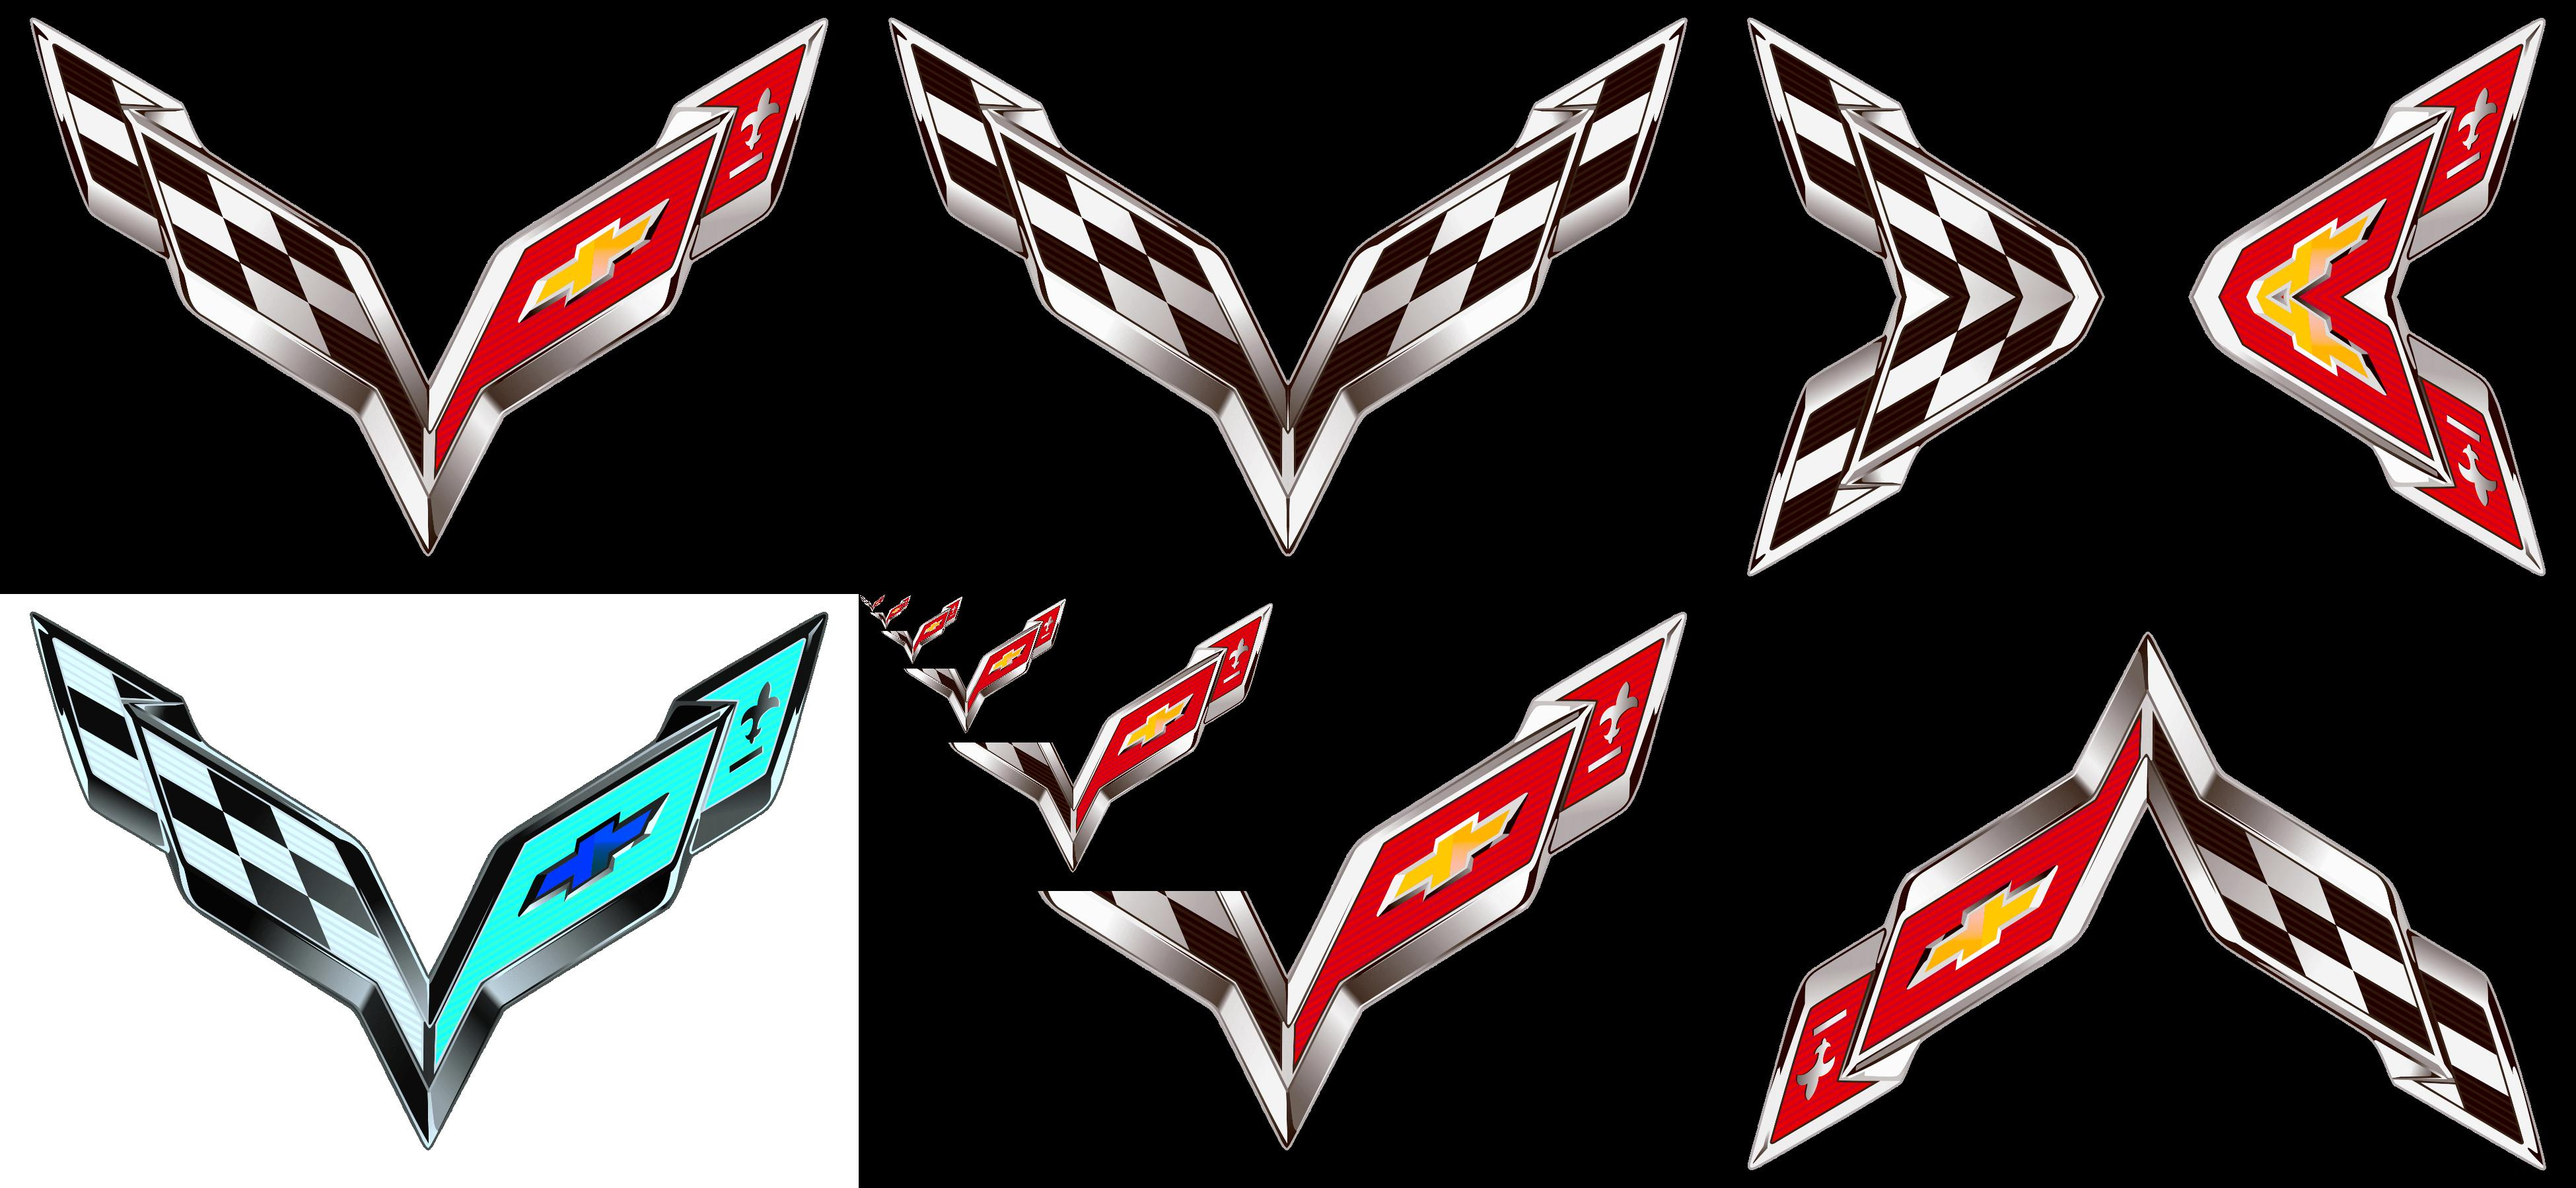
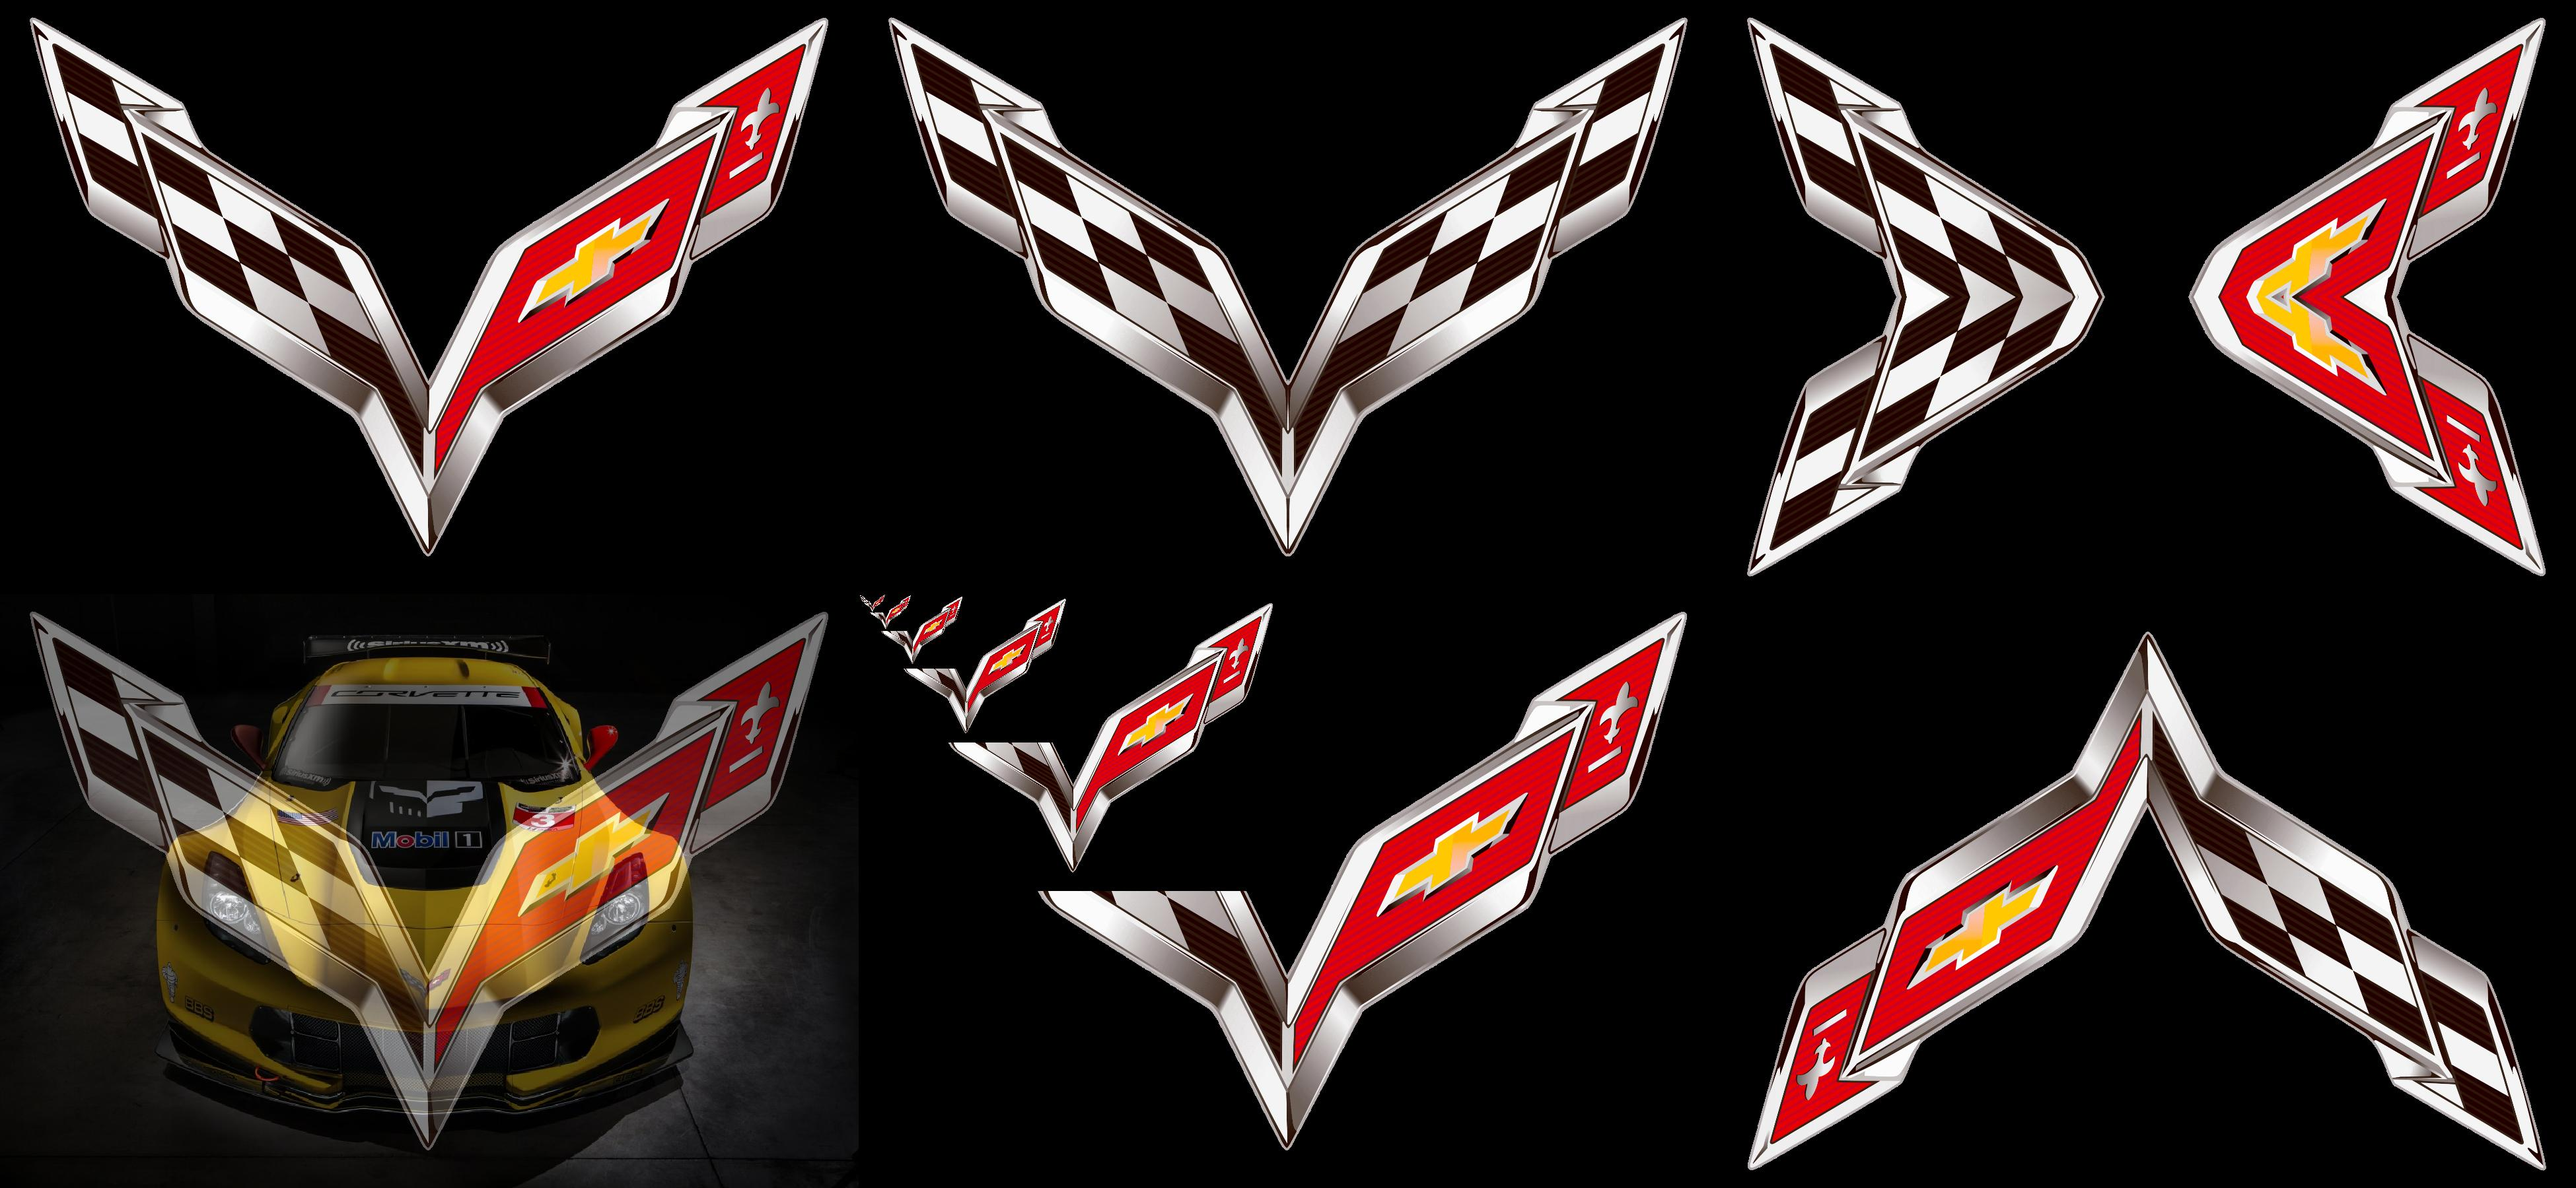
chud behaviour

Changed region(s): [[0.0, 0.4978, 0.3413, 1.0]]

diff --git a/ColorLabs17/TestPicture17.java b/ColorLabs17/TestPicture17.java
@@ -17,6 +17,7 @@ public class TestPicture17
     static Picture vette4 = new Picture("images/Corvette.png");
     static Picture vette5 = new Picture("images/Corvette.png");
     static Picture vette6 = new Picture("images/Corvette.png");
+    static Picture C7 = new Picture("images/C7.jpg");
     static Picture Canvas = new Picture("images/Canvas.jpg");
     
     /**
@@ -26,223 +27,14 @@ public class TestPicture17
   public static void main(String[] args)
   {
       
-      //opens picture using a dialog box
-      /*
-     String fileName = FileChooser.pickAFile();
-     Picture pictObj = new Picture(fileName);
-     pictObj.explore();
-     */
-
-     //opens a pictue using a path
-     //Picture apic = new Picture("C:\\Users\\khayes\\Favorites\\Documents\APCS- Java\chap03\Curriclum 2013\Picture Color labs\images\\beach.jpg");
-     
-     //relative path!!!! (ON TEST)
-     //                          dir/folder/file
-     //Picture apic = new Picture("images\\beach.jpg");
-     Picture ferris1 = new Picture("images/2000 ferris wheel2.jpg");
-     Picture moto = new Picture("images/redMotorcycle.jpg");
-     Picture motoOG = new Picture("images/redMotorcycle.jpg");
-     Picture moto2 = new Picture("images/redMotorcycle.jpg");
-     Picture moto3 = new Picture("images/redMotorcycle.jpg");
-     Picture moto4 = new Picture("images/redMotorcycle.jpg");
-     Picture moto5 = new Picture("images/redMotorcycle.jpg");
-     
-     //Picture ferris3 = new Picture("images/2000 ferris wheel2.jpg");
-
-     //displays the picture
-     //apic.explore();
-     //ferris1.explore();
-     //moto.explore();
-     
-     //makes an array of pixels
-     Pixel[] pixels;
-     
-     //gets pixels from picture and assigns to pixels array
-     pixels = ferris1.getPixels();
-     Pixel[] Mpixels;
-     Mpixels = moto.getPixels();
-     
-     Pixel[] Mpixels2;
-     Mpixels2 = moto2.getPixels();
-     
-     Pixel[] Mpixels3;
-     Mpixels3 = moto3.getPixels();
-     
-     Pixel[] Mpixels4;
-     Mpixels4 = moto4.getPixels();
-     
-     Pixel[] Mpixels5;
-     Mpixels5 = moto5.getPixels();
-     
-     
-     //how many pixels or how large array
-    System.out.println("This is a large array"+pixels.length  );
-    
-    /**/
-    /*
-        //access each index
-    System.out.println(pixels[17]);
-    //access each pixel
-    Pixel spot = ferris1.getPixel(100,100);
-    Pixel spot2 = ferris1.getPixel(433,283);
-    Pixel ferr17 = pixels[17];
-    
-    System.out.println(pixels[17].getColor());
-    System.out.println(spot);
-    
-    Color newColor = new Color(255, 99, 71);
-    
-    ferr17.setRed(240);
-    ferr17.setGreen(100);
-    ferr17.setBlue(200);
-    
-    spot.setColor(newColor);
-    spot2.setColor(newColor);
-    //ferris1.explore();
-    */
-    for (int i = 0; i < 50000; i++)
-    {
-        Pixel yuck = ferris1.getPixel((int)(Math.random()*1000), (int)(Math.random()*668));
-        yuck.setColor(Color.orange);
-    }
-    //ferris1.explore();
-    int Ored = 0, Ogreen = 0, Oblue = 0;
-    for (Pixel p : Mpixels){
-        Ored = p.getRed();
-        Ogreen = p.getGreen();
-        Oblue = p.getBlue();
-        p.setRed(Ored);
-        p.setGreen(Ogreen);
-        p.setBlue(Oblue);
-        
-    }
-    System.out.println(Ored);
-    /*
-
-   // loop to access indexes of array or collection
-
-    //for each loop spot  is a ?
-    for (Pixel spot : pixels)
-    System.out.println( spot );
-
-
-   
- /**/
- int red, green, blue;
- 
-
-
-
- /**
-  * Method to clear red from picture
-  * @param none
-  * @return none
-  */
- /*
-    for (Pixel pixelObj : pixels)
-        {
-            //set the red value of the current pixel to the new value
-           
-
-        }
-    ferris1.explore();
-    
-/**/
- /**
-  * Method to reduce red from picture by a factor of n
-  * @param none
-  * @return none
-  */
-
-/*
-int value;
-final double  FACTOR = .5;
-    for (Pixel pixelObj : pixels)
-    {
-
-        //get the redvalue
-        value = pixelObj.getRed();
-        //System.out.println(value);
-
-        //decrease the red value by 50%
-        
-        //set the red value of the current pixel to the new value
-        
-
-    }
-    // use new picture when changing or it will make changes to 
-    // pic you already changed
-    ferris1.explore();
-    ferris2.explore();
-
-  /**/ 
-    //write/save a picture as a file
-    /*
-    ferris1.write("images/ferris11.jpg");
-    motoOG.explore();
-    /**/
-    /*
-    int avg;
-    for(Pixel p : Mpixels){
-        red = p.getRed();
-        green = p.getGreen();
-        blue = p.getBlue();
-        avg = (red+green+blue)/3;
-        p.setRed(avg);
-        p.setBlue(avg);
-        p.setGreen(avg);
-        
-    }
-    moto.explore();
-    for(Pixel spot1: Mpixels2){
-     red = spot1.getRed();
-     red = (int)(red* 1.25);
-     spot1.setRed(red);
-     
-     }
-    moto2.explore();
-    for(Pixel p: Mpixels3){
-         red = p.getRed();
-         green = p.getGreen();
-         blue = p.getBlue();
-         p.setRed(255-red);
-         p.setGreen(255-green);
-         p.setBlue(255-blue);
-    }
-    moto3.explore();
-    for(Pixel p: Mpixels4){
-        red = p.getRed();
-        green = p.getGreen();
-        blue = p.getBlue();
-        p.setRed(red+35);
-        p.setGreen(green+35);
-        p.setBlue(blue+35);
-    }
-    moto4.explore();
-    for(Pixel p: Mpixels5){
-        red = p.getRed();
-        green = p.getGreen();
-        blue = p.getBlue();
-        if (red >= 105 && red <= 160 && green >= 140 && green <= 170 && blue >= 40 && blue <= 80){
-            blue = blue*7;
-        }
-        p.setRed(red);
-        p.setBlue(blue);
-        p.setGreen(green);
-    }
-    moto5.explore();
-    */
-   System.out.println("Canvas width: " + Canvas.getWidth());
-System.out.println("Canvas height: " + Canvas.getHeight());
-System.out.println("Vette width: " + vette.getWidth());
-System.out.println("Vette height: " + vette.getHeight());
+      
 
        copyToCanvasBetter(vette, Canvas, 0, 0);
        sideways();
        copyToCanvasBetter(vette, Canvas, 1300, 0);
        topways();
        copyToCanvasBetter(vette2, Canvas, 2600, 0);
-       nullify();
+       blend();
        copyToCanvasBetter(vette3, Canvas, 0, 900);
        recursion(vette4);
        copyToCanvasBetter(vette4, Canvas, 1300, 900);
@@ -288,21 +80,25 @@ System.out.println("Vette height: " + vette.getHeight());
           }
               
   }
-  public static void nullify()
+  public static void blend()
   {
-      Pixel Pixel = null;
+      Pixel Pixel1 = null, Pixel2 = null;
       for (int x = 0; x < vette3.getWidth(); x++)
           for ( int y = 0; y < vette3.getHeight(); y++)
           {
-              Pixel = vette3.getPixel(x,y);
-              int redp = Pixel.getRed();
-             int bluep = Pixel.getBlue();
-             int greenp = Pixel.getGreen();
-             Pixel.setRed(255-redp);
-             Pixel.setBlue(255-bluep);
-             Pixel.setGreen(255-greenp);
+             Pixel1 = vette3.getPixel(x,y);
+             int redp = Pixel1.getRed();
+             int bluep = Pixel1.getBlue();
+             int greenp = Pixel1.getGreen();
+             Pixel2 = C7.getPixel((int)(12.0/13 * x ), (int)(793.0/900 * y) );
+             int redc = Pixel2.getRed();
+             int bluec = Pixel2.getBlue();
+             int greenc = Pixel2.getGreen();
+             Pixel1.setRed((redp+redc)/2);
+             Pixel1.setBlue((bluep+bluec)/2);
+             Pixel1.setGreen((greenp+greenc)/2);
           }
-              
+          System.out.println(  (int)(12.0/13 * vette3.getWidth()) + ", " +(int)(793.0/900 * vette3.getHeight()) );  
   }
   public static void recursion(Picture pic)
     {
@@ -314,14 +110,13 @@ System.out.println("Vette height: " + vette.getHeight());
             for (int y = 0; y < pic.getHeight(); y += 2)
             {
                 pixel1 = pic.getPixel(x, y);
-                pixel2 = vette4.getPixel(x / 2, y / 2); // write INTO vette4
+                pixel2 = vette4.getPixel(x / 2, y / 2); 
                 pixel2.setColor(pixel1.getColor());
             }
         }
     
         if (pic.getWidth() / 2 > 50)
         {
-            // Crop the top-left region we just drew into vette4
             Picture crop = new Picture(pic.getWidth() / 2, pic.getHeight() / 2);
             for (int x = 0; x < crop.getWidth(); x++)
             {
